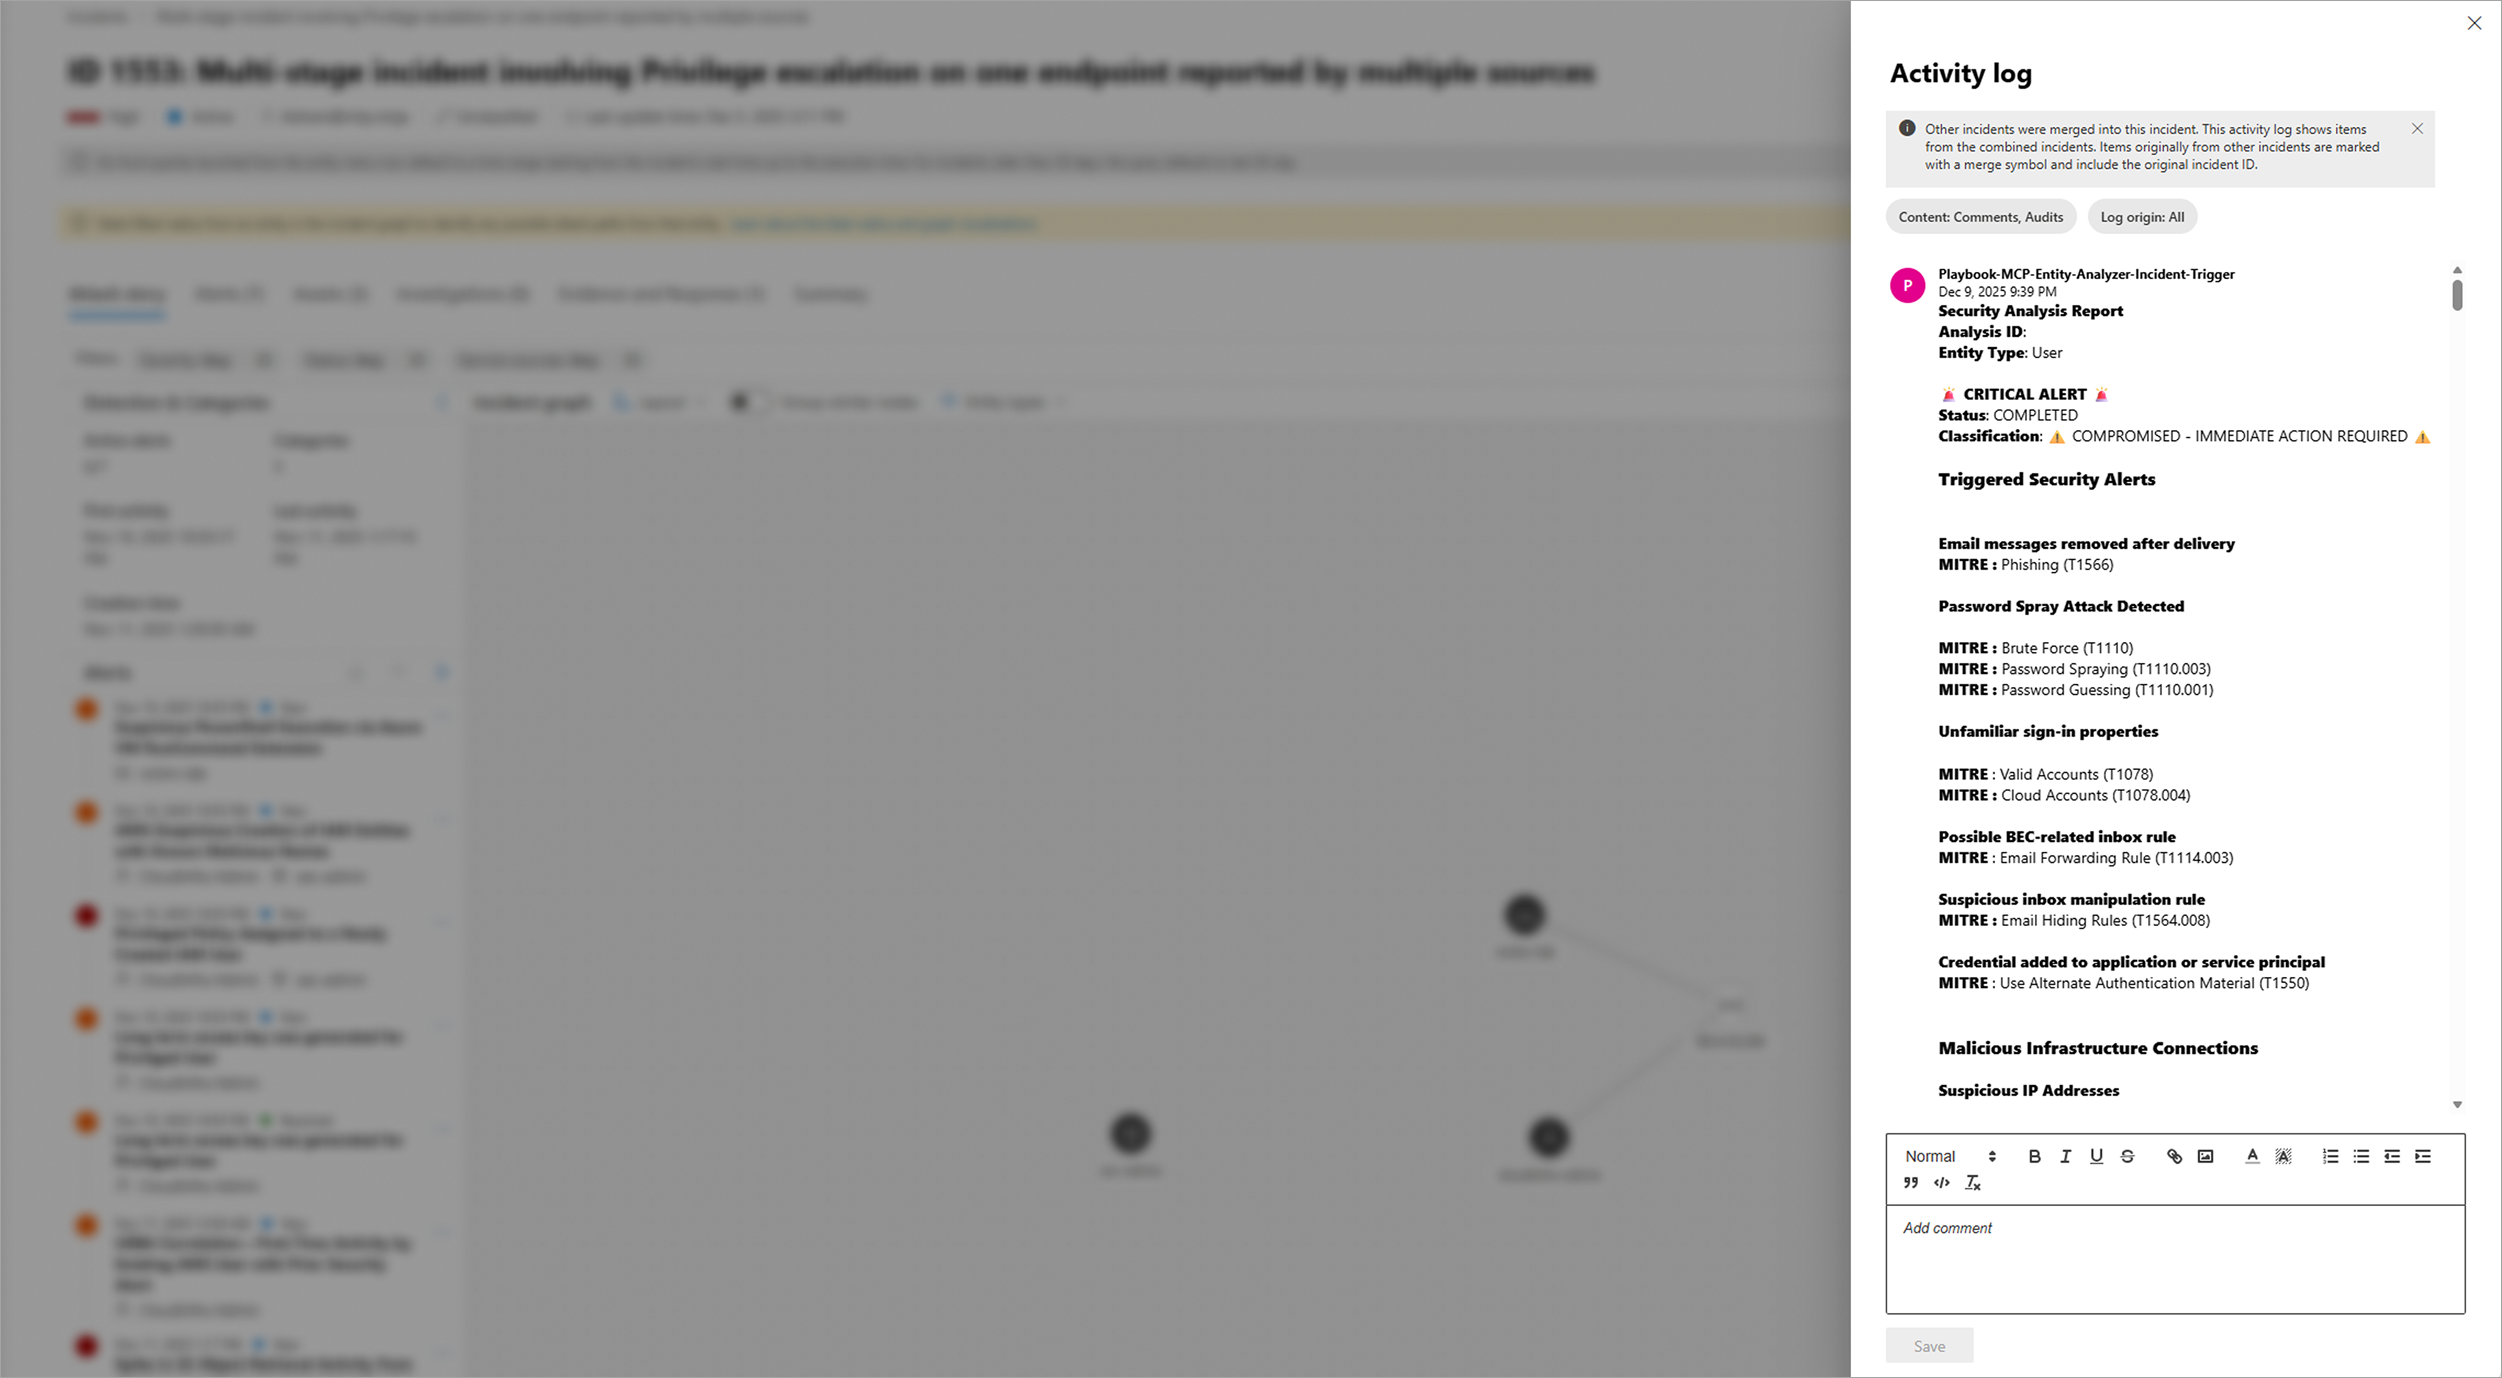
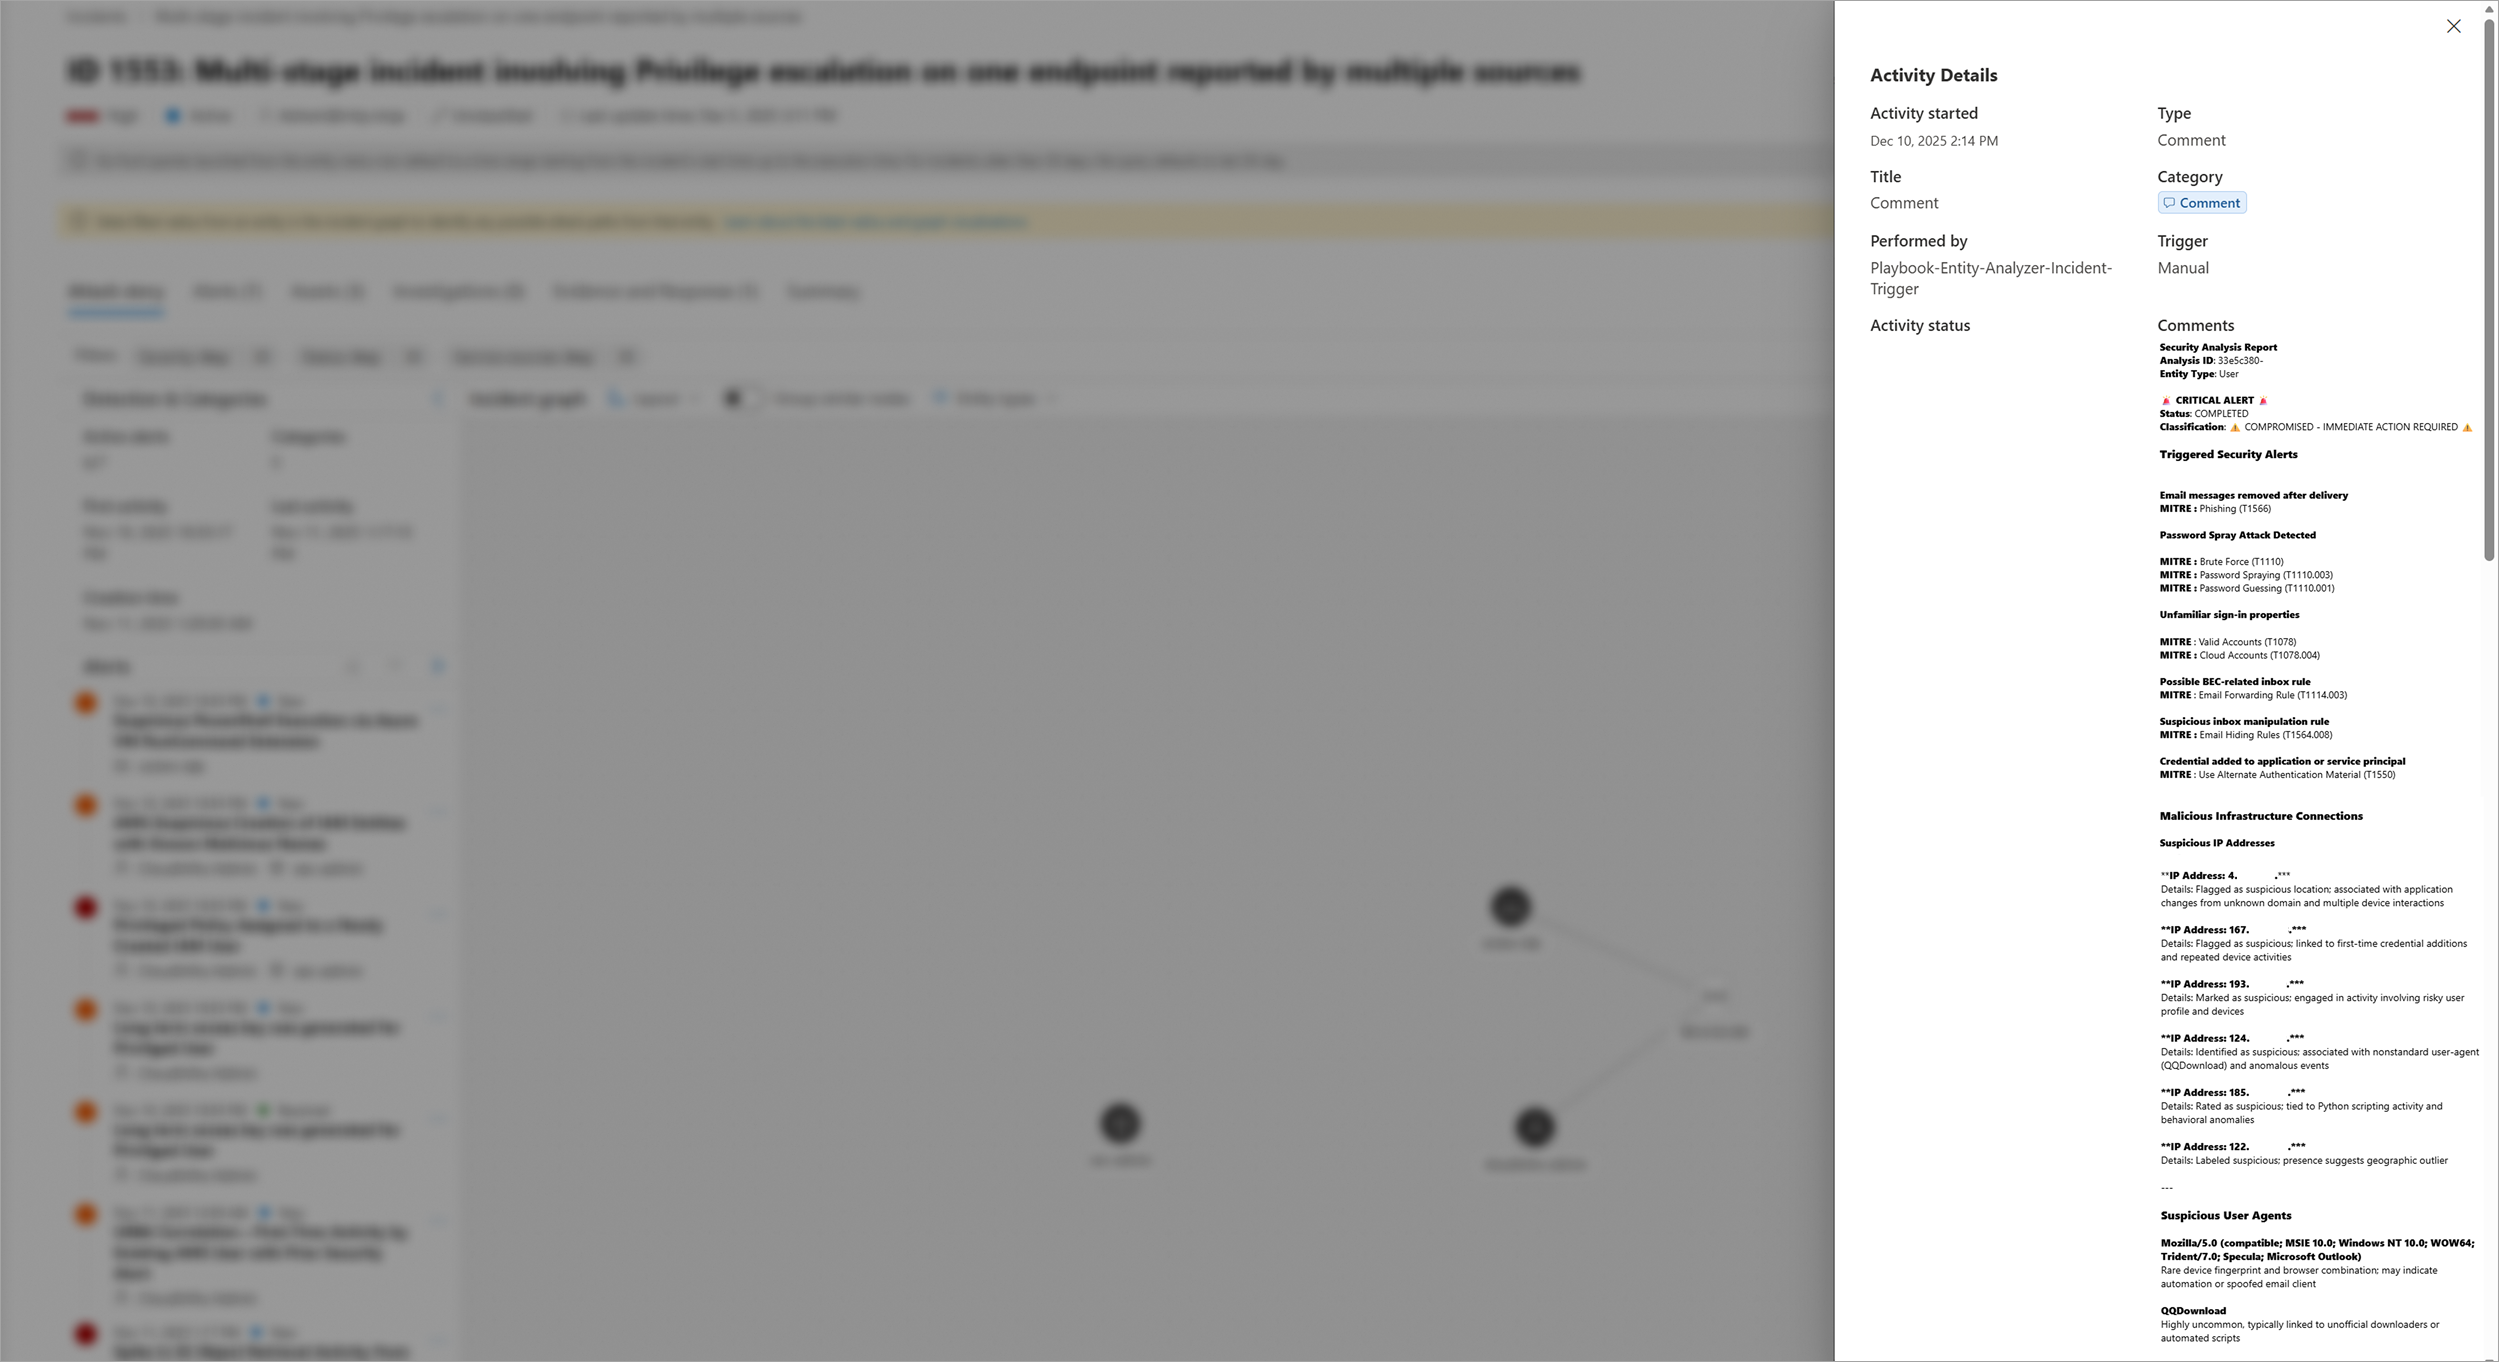
Update Sentinel MCP docs and images for logic app
Updated screenshots for incident classification and recommendation in the Sentinel MCP logic app documentation, removed the separate incident evidence image, and revised related documentation to reflect these changes. Also updated required parameters and improved descriptions for clarity.

diff --git a/articles/sentinel/datalake/sentinel-mcp-logic-apps.md b/articles/sentinel/datalake/sentinel-mcp-logic-apps.md
@@ -4,7 +4,7 @@ titleSuffix: Microsoft Security
 description: Learn how to set up an Azure Logic App using Microsoft Sentinel's collection of Model Context Protocol (MCP) tools  
 author: poliveria
 ms.topic: how-to
-ms.date: 12/09/2025
+ms.date: 12/11/2025
 ms.author: pauloliveria
 ms.service: microsoft-sentinel
 
@@ -32,7 +32,7 @@ You have two options for adding the entity analyzer tool to your logic app:
 - [Add to an existing logic app](#add-to-an-existing-logic-app)
 
 ### Use an existing logic app template 
-You can use a logic app template for an easy and quick implementation of the entity analyzer tool. The logic app template takes all users and URLs in an incident, enriches them by using the entity analyzer tool, and sends that analysis as a comment to the original incident.
+You can use a logic app template for an easy and quick implementation of the entity analyzer tool. The following screenshot shows how one of the available templates (Incident Trigger Entity Analyzer) takes all users and URLs in an incident, enriches them by using the entity analyzer tool, and sends that analysis as a comment to the original incident:
 
 :::image type="content" source="media/sentinel-mcp/logic-app-template.png" alt-text="Screenshot of the entity analyzer tool added to logic app template." lightbox="media/sentinel-mcp/logic-app-template.png":::
 
@@ -51,17 +51,14 @@ To install a preexisting logic app template:
 
 When you create and run a playbook, insights from the entity analyzer appear as comments within an incident's details:
 
-- The following screenshot shows the analyzer's top-level classification that a user account is compromised along with its supporting evidence, starting with the series of alerts and their associated [MITRE ATT&CK technqniues](https://attack.mitre.org/).
+- The following screenshot shows the analyzer's top-level classification that a user account is compromised along with its supporting evidence, starting with the series of alerts and their associated [MITRE ATT&CK technqniues](https://attack.mitre.org/), a list of malicious IP addresses the user signed in from, and a few suspicious user agents the user's activity originated from.
 
     :::image type="content" source="media/sentinel-mcp/logic-app-incident-classification.png" alt-text="Screenshot of the entity analyzer tool incident classification and evidence added to incident comments." lightbox="media/sentinel-mcp/logic-app-incident-classification.png":::
 
-- The following screenshot further shows the analyzer's evidence, this time listing the set of malicious IP addresses the user signed in from and some of the suspicious user agents the user's activity originated from.
-
-    :::image type="content" source="media/sentinel-mcp/logic-app-incident-evidence.png" alt-text="Screenshot of the entity analyzer tool evidence added to incident comments." lightbox="media/sentinel-mcp/logic-app-incident-evidence.png":::
-
-- The following screenshot shows the remaining suspicious agents and a list of anomalous behavior, the corresponding remediations to remediate the account compromise, and a list of data sources the entity analyzer used during analysis.
+- The following screenshot shows the rest supporting evidence (the remaining suspicious agents and a list of anomalous behavior). By providing these pieces of evidence, the analyzer can make security analysts, who typically have to query and analyze these themselves, feel more comfortable trusting its classification. The analyzer also gives recommendations to remediate the account compromise, and a list of data sources it used during analysis.
 
     :::image type="content" source="media/sentinel-mcp/logic-app-incident-recommendation.png" alt-text="Screenshot of the entity analyzer tool evidence and recommendations added to incident comments." lightbox="media/sentinel-mcp/logic-app-incident-recommendation.png":::
+
 
 ### Add to an existing logic app
 

diff --git a/articles/sentinel/datalake/sentinel-mcp-data-exploration-tool.md b/articles/sentinel/datalake/sentinel-mcp-data-exploration-tool.md
@@ -4,7 +4,7 @@ titleSuffix: Microsoft Security
 description: Learn about the different tools available in the Data exploration collection in Microsoft Sentinel 
 author: poliveria
 ms.topic: how-to
-ms.date: 11/24/2025
+ms.date: 12/11/2025
 ms.author: pauloliveria
 ms.service: microsoft-sentinel
 
@@ -76,7 +76,7 @@ Entity analysis tools might require a few minutes to generate results, so there 
 | Parameters | Required? | Description | 
 |----------|----------|----------|
 | Microsoft Entra object ID or URL| Yes |This parameter takes in the user or URL you want to analyze. |
-| Lookback time| No |This parameter takes in the lookback time. Default is seven days. |
+| Lookback time| Yes |This parameter takes in the lookback time.  |
 | `workspaceId`| No |This parameter takes in a workspace identifier to limit the search to a single connected Microsoft Sentinel data lake workspace. |
 
 These tools return an identifier value that you can provide to the retrieve analysis tool as input.
